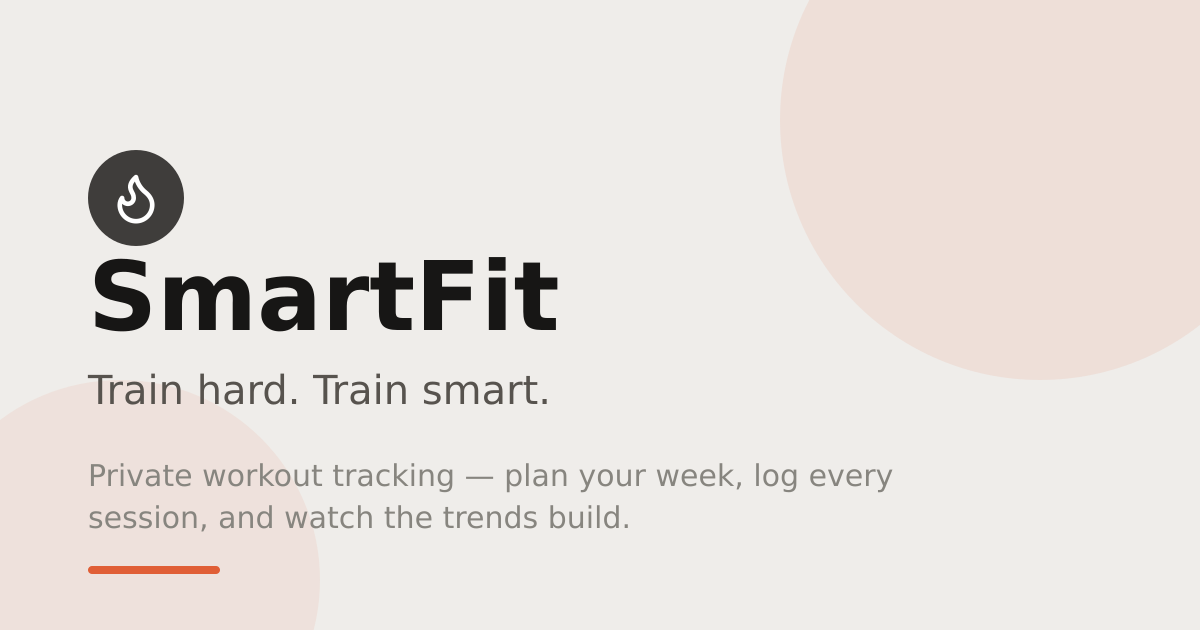
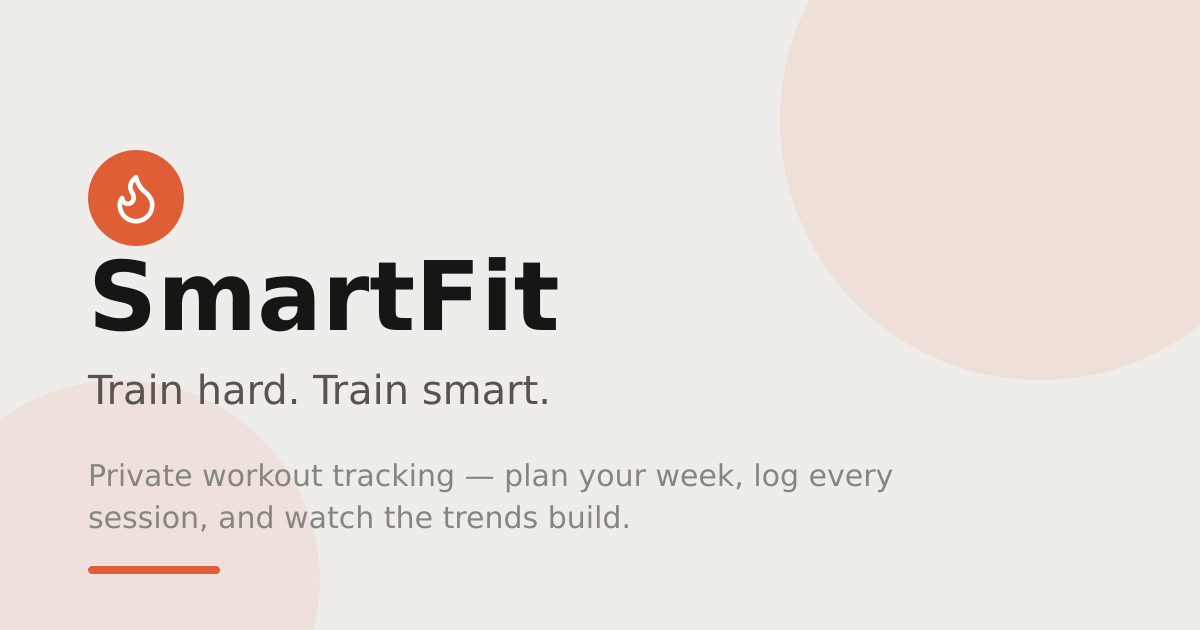
style(brand): ember plate under the fire; fix(onboarding): done-flag lands before the redirect
Two user-directed corrections:

**The mark keeps its orange.** The fire glyph stays, but the plate goes
back to the brand ember (#e05e36) it always wore: `brand.tsx` (header
badge, shell, onboarding, wordmarks), the share-card canvas mark and
every regenerated asset — favicon/PWA/maskable/Apple icons, Expo icon,
adaptive icon, favicon.ico, og.png and splash (the last two keep their
compositions; the tile is swapped in place). Service-worker cache
bumped to v3 so returning clients trade icon bytes.

**Onboarding can no longer be un-finished.** `finish()` now awaits a new
`flushWrites()` before redirecting: on-device the persistence effect
already writes synchronously on commit, and in cloud mode the redirect
waits for the queued profile write instead of racing it. `WriteQueue`
gains `flush()`, which resolves when the queue settles — including when
it parks on a permission error, so a navigation can never hang — and
emits once more when the drain finishes so waiters observe the settled
queue. Covered by a new write-queue test (95/95).

Changed region(s): [[0.0617, 0.2413, 0.1542, 0.3921]]

diff --git a/src/app/onboarding/page.tsx b/src/app/onboarding/page.tsx
@@ -20,7 +20,7 @@ const STEPS = ['Welcome', 'About you', 'Strategy', 'First goal', 'Ready'] as con
 
 export default function OnboardingPage() {
   const router = useRouter();
-  const { state, completeOnboarding, addGoal, cloud } = useStore();
+  const { state, completeOnboarding, addGoal, flushWrites, cloud } = useStore();
   const { user } = useAuth();
   const [step, setStep] = useState(0);
   // Prefill from whatever the account already knows: the profile if it has a
@@ -40,8 +40,13 @@ export default function OnboardingPage() {
       : '',
   );
   const [gymId, setGymId] = useState(state.profile.gymId ?? '');
+  // The finish write must land before the redirect, or a reload right after
+  // "Enter dashboard" could resurrect this page.
+  const [saving, setSaving] = useState(false);
 
-  function finish() {
+  async function finish() {
+    if (saving) return;
+    setSaving(true);
     if (Number(goalTarget) > 0) {
       addGoal({
         name: goalMetric === 'workouts' ? 'Train this week' : 'Active minutes this week',
@@ -66,6 +71,10 @@ export default function OnboardingPage() {
       ...(targetKg != null ? { targetWeightKg: targetKg } : {}),
       ...(gymId ? { gymId } : {}),
     });
+    // On-device this resolves immediately (the persistence effect writes
+    // synchronously on commit); in cloud mode it waits for the queued
+    // profile write to land so the done-flag can never be lost in flight.
+    await flushWrites();
     router.replace('/dashboard');
   }
 
@@ -343,8 +352,8 @@ export default function OnboardingPage() {
             Continue <ArrowRight className="h-4 w-4" />
           </Button>
         ) : (
-          <Button onClick={finish} disabled={!nameOk}>
-            Enter dashboard <ArrowRight className="h-4 w-4" />
+          <Button onClick={() => void finish()} disabled={!nameOk || saving}>
+            {saving ? 'Saving…' : 'Enter dashboard'} <ArrowRight className="h-4 w-4" />
           </Button>
         )}
       </footer>

diff --git a/tests/write-queue.test.ts b/tests/write-queue.test.ts
@@ -196,3 +196,32 @@ test('clear() drops pending work — used on sign-out', async () => {
 
   assert.deepEqual(written, [], "a signed-out session's writes never land");
 });
+
+test('flush() waits for in-flight writes, and parks (not hangs) on error', async () => {
+  const q = new WriteQueue();
+
+  let release!: () => void;
+  const gate = new Promise<void>((r) => (release = r));
+  q.push({ key: 'a', run: () => gate });
+
+  let flushed = false;
+  const pending = q.flush().then(() => void (flushed = true));
+  await new Promise((r) => setTimeout(r, 5));
+  assert.equal(flushed, false, 'flush must not resolve while a write is in flight');
+
+  release();
+  await pending;
+  assert.equal(flushed, true);
+  assert.equal(q.pending, 0);
+
+  // A navigation that awaits flush() must never hang on a rules failure.
+  const denied = new WriteQueue();
+  denied.push({
+    key: 'denied',
+    run: async () => {
+      throw Object.assign(new Error('nope'), { code: 'permission-denied' });
+    },
+  });
+  await denied.flush();
+  assert.equal(denied.pending, 1, 'the parked op stays queued for a manual retry');
+});

diff --git a/src/lib/firebase/write-queue.ts b/src/lib/firebase/write-queue.ts
@@ -84,6 +84,23 @@ export class WriteQueue {
     }
   }
 
+  /**
+   * Resolves once everything queued so far has been written — or once the
+   * queue has parked on an error, so callers never hang on a permission
+   * failure. Used where a navigation must not outrun its save.
+   */
+  flush(): Promise<void> {
+    if (!this.queue.length && !this.running) return Promise.resolve();
+    return new Promise((resolve) => {
+      const off = this.subscribe((status, pending) => {
+        if ((pending === 0 && !this.running) || status === 'error') {
+          off();
+          resolve();
+        }
+      });
+    });
+  }
+
   /** Drop everything pending (sign-out, account wipe). */
   clear() {
     this.queue = [];
@@ -130,6 +147,9 @@ export class WriteQueue {
       this.setStatus('idle');
     } finally {
       this.running = false;
+      // Notify after the flag flips: flush() waiters observe the settled
+      // queue, not a half-finished drain.
+      this.emit();
     }
   }
 

diff --git a/src/components/brand.tsx b/src/components/brand.tsx
@@ -2,7 +2,7 @@ import { cn } from '@/lib/utils';
 import { Flame } from 'lucide-react';
 
 /**
- * The one SmartFit mark: the charcoal disc with the white flame — the badge
+ * The one SmartFit mark: the ember disc with the white flame — the badge
  * that leads the dashboard header greeting, and the geometry of
  * `public/icon.svg`, the PWA/Expo icons (`scripts/gen-brand-assets.mjs`) and
  * the share-card canvas mark. One fire everywhere: favicon, splash, share
@@ -12,7 +12,7 @@ export function Logo({ className, size = 36 }: { className?: string; size?: numb
   return (
     <span
       className={cn(
-        'bg-charcoal inline-flex shrink-0 items-center justify-center rounded-full text-white',
+        'bg-ember inline-flex shrink-0 items-center justify-center rounded-full text-white',
         className,
       )}
       style={{ width: size, height: size }}

diff --git a/src/lib/share-card.ts b/src/lib/share-card.ts
@@ -212,7 +212,7 @@ function fit(
 /* ── brand furniture ─────────────────────────────────────────────────── */
 
 /**
- * The SmartFit mark: the charcoal disc with the white flame — the same badge
+ * The SmartFit mark: the ember disc with the white flame — the same badge
  * the dashboard header wears, and the geometry of `public/icon.svg`. Drawn as
  * vectors so there is no image decode, no CORS and no softness at any size.
  */
@@ -230,7 +230,7 @@ export function drawLogoMark(
   }
   ctx.beginPath();
   ctx.arc(x + size / 2, y + size / 2, size / 2, 0, Math.PI * 2);
-  ctx.fillStyle = opts.plate ?? '#3f3d3b';
+  ctx.fillStyle = opts.plate ?? '#e05e36';
   ctx.fill();
   ctx.restore();
 

diff --git a/src/lib/store-context.tsx b/src/lib/store-context.tsx
@@ -182,6 +182,8 @@ interface StoreContextValue {
   // profile / lifecycle
   updateProfile: (patch: Partial<UserProfile>) => void;
   completeOnboarding: (patch: Partial<UserProfile>) => void;
+  /** Resolves when every queued cloud write has landed; instant on-device. */
+  flushWrites: () => Promise<void>;
   clearData: () => Promise<void>;
   /** Sign out and drop this device's copy of the account's data. */
   signOutAndForget: () => Promise<void>;
@@ -725,6 +727,7 @@ export function StoreProvider({ children }: { children: React.ReactNode }) {
           (next, o) => ({ key: 'profile', run: () => saveProfile(o, next.profile) }),
         );
       },
+      flushWrites: () => queue.flush(),
 
       clearData: async () => {
         queue.clear();

diff --git a/public/sw.js b/public/sw.js
@@ -10,7 +10,7 @@
  * The app's *data* is already offline-capable (localStorage in local mode,
  * Firestore's IndexedDB cache in cloud mode); this only covers the shell.
  */
-const VERSION = 'smartfit-v2'; // fire-mark refresh: new icon bytes behind old URLs
+const VERSION = 'smartfit-v3'; // ember-plate fire mark: new icon bytes behind old URLs
 const SHELL_CACHE = `${VERSION}-shell`;
 const ASSET_CACHE = `${VERSION}-assets`;
 const OFFLINE_URL = '/offline';
